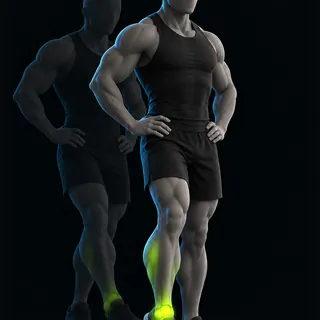
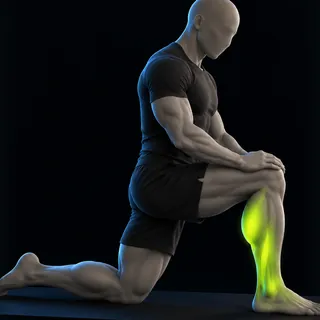
Imágenes de movilidad: nombres equivalentes, tobillo corregido e imagen arriba
- Las rutinas de movilidad no encontraban su imagen porque se subió con otro
  nombre: Movilidad articular dinámica → sentadilla-profunda, Movilidad de
  cadera y hombro → estocada-con-rotacion-toracica, Movilidad y estiramiento
  → estiramiento-de-flexores-de-cadera-con-brazo-arriba. Se agregan como
  alias, junto con los movimientos de cada rutina (deslizamiento en pared,
  mariposa, hidrante, torsión acostado, etc.).
- Tobillo intercambiado: estiramiento-activo-de-tobillo tenía los círculos de
  tobillo de pie. Se renombra a circulos-de-tobillo y la de rodilla en el
  piso pasa a estiramiento-activo-de-tobillo.
- Ventana de movilidad: la imagen va arriba (antes quedaba al final, debajo
  de toda la explicación) y cada movimiento de la rutina muestra su
  miniatura.

Claude-Session: https://claude.ai/code/session_01TBDEA3ZRisCYr87RAhCu9n

diff --git a/js/08-rutinas-ia-fallback.js b/js/08-rutinas-ia-fallback.js
@@ -1213,7 +1213,24 @@ const EJ_ALIAS={
   'prensa-de-piernas-rango-parcial':'prensa-de-piernas',
   'press-pallof-anti-rotacion':'press-pallof',
   'rotacion-externa-con-banda-codo-fijo':'rotacion-externa-con-banda',
-  'movilidad-de-columna-gato-camello':'gato-camello'
+  'movilidad-de-columna-gato-camello':'gato-camello',
+  // Movilidad y estiramiento: rutinas completas y sus movimientos usan la imagen de su postura principal
+  'movilidad-articular-dinamica':'sentadilla-profunda',
+  'sentadilla-profunda-con-pausa':'sentadilla-profunda',
+  'movilidad-de-cadera-y-hombro':'estocada-con-rotacion-toracica',
+  'zancada-baja-con-rotacion-de-torso':'estocada-con-rotacion-toracica',
+  'movilidad-y-estiramiento':'estiramiento-de-flexores-de-cadera-con-brazo-arriba',
+  'flexor-de-cadera-en-zancada-baja':'estiramiento-de-flexores-de-cadera-con-brazo-arriba',
+  'flexor-de-cadera-en-media-rodilla':'estiramiento-de-flexores-de-cadera',
+  'circulos-de-cadera-hidrante':'fire-hydrant-en-cuadrupedia',
+  'rotacion-de-espalda-alta-en-cuatro-apoyos':'movilidad-de-columna-toracica',
+  'paso-de-banda-o-palo-sobre-la-cabeza':'movilidad-de-hombro-con-banda',
+  'deslizamiento-en-pared':'deslizamientos-en-pared',
+  'postura-del-nino-con-brazos-al-frente':'postura-del-nino',
+  'isquiotibiales-sentado':'estiramiento-de-isquiotibiales',
+  'aductores-en-mariposa':'estiramiento-mariposa',
+  'apertura-de-pecho-en-marco-de-puerta':'estiramiento-de-pecho-en-marco-de-puerta',
+  'torsion-acostado':'rotacion-de-columna-acostado'
 };
 function slugEj(nm){ const n=slugImg(nm); return EJ_ALIAS[n]||n; }
 function basesEjercicio(ej){ const n=slugEj(ej.nm), g=slugImg(ej.ms||''), g1=g.split('-')[0]; return ['ejercicios/'+n,'grupos/'+g,'grupos/'+g1]; }

diff --git a/css/estilos.css b/css/estilos.css
@@ -487,8 +487,11 @@ canvas.chart{width:100%;height:170px;display:block;}
 .mv-tipo{display:inline-block;font-size:var(--fs-xs);font-weight:700;letter-spacing:.03em;text-transform:uppercase;color:var(--v2);margin-bottom:6px}
 .mv-t{font-weight:700;margin-top:10px;font-size:var(--fs-md)}
 .mv-p{color:var(--tx)}
-.mv-ol{margin:6px 0 0;padding-left:20px;display:flex;flex-direction:column;gap:9px}
-.mv-ol li{font-size:var(--fs-md)}
+.mv-ol{margin:6px 0 0;padding-left:0;list-style:none;display:flex;flex-direction:column;gap:10px}
+.mv-ol li{font-size:var(--fs-md);display:grid;grid-template-columns:56px minmax(0,1fr);column-gap:12px;align-items:start}
+.mv-ol li>p{margin:0;grid-column:2}
+.mv-ol li>div{grid-column:2}
+.mv-th{grid-row:1/span 2;width:56px;height:70px;border-radius:12px;overflow:hidden;display:block}
 .mv-ol li span{font-weight:700;color:var(--v2);font-size:var(--fs-sm);margin-left:4px}
 .mv-ol li div{color:var(--mu);font-size:var(--fs-sm);line-height:1.45;margin-top:1px}
 .set-r.fcr{grid-template-columns:24px 1fr 84px 40px;gap:8px;}

diff --git a/js/15-registro-sesion.js b/js/15-registro-sesion.js
@@ -267,7 +267,9 @@ function openModal(idx){
   if(esEjMovilidad(ej)){
     if(head) head.style.display='none';
     const mr=movRx(ej,d), mi=movInfo(ej,d);
-    const mv=document.getElementById('m-mov'); mv.innerHTML=movBloqueHTML(ej,d); mv.style.display='block';
+    // La imagen va arriba: en movilidad la explicación es larga y al final ya no se veía
+    const mu=document.getElementById('m-musculo'), fig=mu.innerHTML; mu.innerHTML='';
+    const mv=document.getElementById('m-mov'); mv.innerHTML=fig+movBloqueHTML(ej,d); mv.style.display='block';
     const lab=mi.kb
       ? (mr.forma==='tiempo' ? 'Secuencia completa · ~'+mr.min+' min' : 'Ronda completa · '+mr.np+' movimientos')
       : (limpiarReps(ej.reps)||'30 seg');

diff --git a/js/14-motor-rutinas.js b/js/14-motor-rutinas.js
@@ -181,7 +181,7 @@ function movBloqueHTML(e,dia){
   h+=sec('Cuándo',E(i.cuando));
   if(i.pasos){
     h+=`<div class="mv-t">${r.forma==='tiempo'?'Posturas y movimientos · ~'+r.min+' min en total':'Movimientos de cada ronda'}</div><ol class="mv-ol">`+
-       i.pasos.map(p=>`<li><b>${E(p.nm)}</b> <span>${E(p.dosis)}</span><div>${E(p.como)}</div></li>`).join('')+'</ol>';
+       i.pasos.map(p=>`<li>${typeof pic==='function'?`<span class="mv-th">${pic(basesEjercicioMini({nm:p.nm,ms:''}),'stretch','thumb')}</span>`:''}<p><b>${E(p.nm)}</b> <span>${E(p.dosis)}</span></p><div>${E(p.como)}</div></li>`).join('')+'</ol>';
   }
   return h;
 }

diff --git a/sw.js b/sw.js
@@ -8,7 +8,7 @@
    → Los datos de Firebase NUNCA pasan por aquí (van directo).
    → Al desplegar cambios, sube CACHE_VERSION.
    ════════════════════════════════════════════════════════ */
-const CACHE_VERSION = 'fitnesspro-v90';
+const CACHE_VERSION = 'fitnesspro-v91';
 const PRECACHE_LOCAL = [
   './',
   './index.html',
